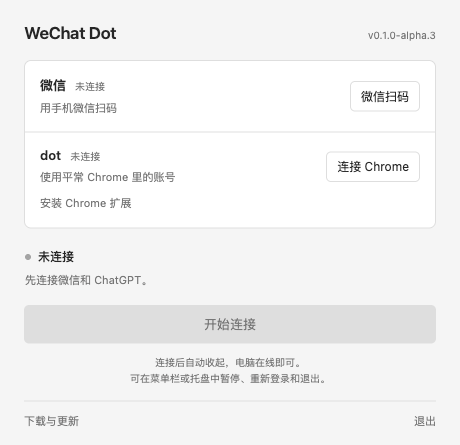
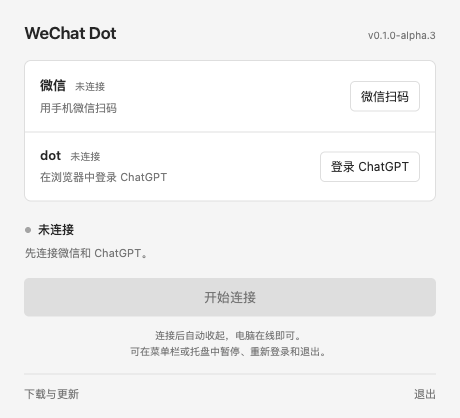
Restore ordinary browser login and verify the live text bridge

diff --git a/src/main.ts b/src/main.ts
@@ -183,7 +183,7 @@ async function run(): Promise<void> {
       const newer = Array.isArray(releases) && releases.find(r => !r.draft && valid(r.tag_name) && gt(r.tag_name, app.getVersion()));
       if (newer) publish({ updateUrl: config.updates.releaseUrl });
     }).catch(() => {});
-  if (store.data.dot) {
+  if (store.data.dot && store.data.enabled) {
     publish({ dot: 'waiting', dotDetail: '正在恢复 ChatGPT 登录…' });
     try { await dot.open(false); }
     catch (e) { publish({ dot: 'error', dotDetail: (e as Error).message }); show(); }

diff --git a/docs/development.md b/docs/development.md
@@ -16,7 +16,7 @@ npm run release
 
 `check` 跑类型检查、单元测试和编译；`smoke` 打开真实窗口；`desktop.mjs` 用临时目录和本地接口验证文字、去重、重启、主动回复和托盘运行。
 
-程序使用系统的应用数据目录。里面的 `state.json` 保存微信凭据、dot 标识、消息队列和收取位置。ChatGPT 登录由使用者平常的 Chrome 保存。旧版留下的 `ChatGPT Browser` 资料会保留，扩展不读取它。发布目录只包含程序资源。
+程序使用系统的应用数据目录。里面的 `state.json` 保存微信凭据、dot 标识、消息队列和收取位置。Chrome／Edge 使用其中的 `ChatGPT Browser` 独立资料目录保存登录，不读取日常浏览器的登录数据。发布目录只包含程序资源。
 
 通常不用改配置。需要调试时，把 `config/example.json` 复制到应用数据目录，命名为 `config.json`。默认地址、超时和限制都在 `config/defaults.json`。
 
@@ -26,27 +26,35 @@ npm run release
 
 ## dot
 
-`src/dot/client.ts` 集中处理网页适配。默认通过 Chrome 扩展使用现有登录状态。扩展创建自己的 ChatGPT 标签页；本地程序通过回环 WebSocket 请求读取 dot、检查输入框或发送文字。页面操作集中在 `src/dot/page.ts`，扩展执行打包好的方法，不接收任意脚本。
+`src/dot/client.ts` 集中处理网页适配。默认使用普通 Chrome／Edge 的独立窗口。登录阶段不启用调试连接；点击「登录完成」后，程序用同一份浏览器资料连接自己的窗口。页面操作集中在 `src/dot/page.ts`，发送走网页原来的输入框和按钮。
 
-扩展只申请 ChatGPT 网站权限，消息监听只在 dot 页面运行，并只转发自己创建的标签页。连接地址、扩展公钥和超时在配置中。服务只监听 `127.0.0.1`，只接受对应扩展 Origin。会话信息仅在这台电脑的 Chrome 与程序之间传递；没有中转服务器。
-
-发送仍使用网页输入框和发送按钮，由原网页准备请求。扩展观察原始请求 ID 和响应，完整回复才进入微信发送队列。程序重启后扩展会自动重连，通常在一分钟内。
+程序观察原始请求 ID 和响应，完整回复才进入微信发送队列。暂停状态下重启只打开连接设置；只有上次仍在连接时，才自动恢复浏览器和收发。无需 API Key、中转服务器或安装扩展。
 
 接口结构参考本机 ChatGPT 26.1002.52244 的客户端资源。适配器没有复制或打包这些资源。当前路径见配置；线上兼容性以验证记录为准。
 
-2026-10-08，独立浏览器实测反复遇到人机验证，平常的 Chrome 可以正常打开原 dot。因此默认改用扩展；真实收发仍待验证。遇到 HTTP 401／403 时暂停连接和自动识别，保留消息队列，等待用户明确操作。
+2026-10-08，独立浏览器实测曾反复遇到人机验证，平常的 Chrome 可以正常打开原 dot。2026-10-09 按确认的免费本地方案恢复普通浏览器入口；用户已完成独立 Chrome 登录，程序已识别原有 dot，真实收发继续验证。遇到 HTTP 401／403 时暂停连接和自动识别，保留消息队列，等待用户明确操作。
+
+2026-10-09 网页只读检查确认：旧 `/dots/{threadId}` 地址会跳转到 `/dots/home`，繁体中文界面的发送按钮为 `aria-label="傳送"`，没有旧的 `data-testid`。默认页面地址和按钮选择器已对应更新；本地测试覆盖跳转、真实可编辑输入框和繁体中文按钮。
+
+同日，实际启动连接时，消息接口返回 HTTP 422：`query.limit` 最大为 32。分页默认值从 50 改为原客户端使用的 20，并在本地接口测试中加入这个上限。
 
 ## 窗口与后台运行
 
 首次打开显示连接窗口。开始连接后收起；再次启动时，如果上次仍在连接，就在后台恢复。菜单栏／托盘提供连接设置、暂停、重新登录和退出。窗口随二维码、登录提示和错误内容调整高度，边界配置在 `desktop` 中。
 
-Chrome 扩展的源文件位于 `src/extension`，构建输出在 `dist/extension`，安装包同时携带可加载的扩展文件夹。扩展尚未上架，开发版需要手动加载；还不能称为一键安装。旧的独立浏览器适配保留供排查，内嵌模式用于本地接口测试，两者都不是默认登录入口。
+旧 Chrome 扩展的源文件位于 `src/extension`，仅保留作开发对照；它不是默认连接方式。内嵌模式用于本地接口测试。
 
 这套扩展流程仅用于开发验证，不是用户安装方案。调试时，在 Chrome 的 `chrome://extensions` 开启开发者模式，加载 `dist/extension`，再在扩展里连接本地程序。正式安装不能要求用户做这些操作。
 
 2026-10-08 重新核对安装限制：[Chrome 官方文档](https://developer.chrome.com/docs/extensions/how-to/distribute/install-extensions)要求 macOS／Windows 的常规扩展分发使用 Chrome Web Store，即使由其他软件协助安装也需要用户确认。把未上架扩展放进安装包，不能自动变成普通用户可直接安装的版本。
 
 OpenAI 的 [Sign in with ChatGPT](https://developers.openai.com/siwc/token-sharing-open-source)允许开源程序通过系统浏览器授权使用 ChatGPT 套餐，但明确不授予原有聊天及其他账户上下文。[支持的调用入口](https://developers.openai.com/siwc/token-sharing-open-source/models-and-inference)是 Responses API，不是 ChatGPT backend-api。因此不能把这个登录流程直接当成已验证的原有 dot 接入，也不能用一个新建聊天替代用户原来的 dot。
+
+## 能否直接绑定本机 ChatGPT
+
+2026-10-09 检查了本机 ChatGPT 26.1007.21159 的安装信息、链接路由和本地通信代码。`codex://dots` 可以打开 dot 入口；已检查的路由没有发送文字和订阅回复的方法。本地管道用于客户端工具和浏览器协作，目前没有找到供本项目直接绑定 dot 的消息入口。这次只检查程序资源，没有进行客户端收发实测，也没有实现新的连接方式。
+
+[dot 的电脑连接说明](https://learn.chatgpt.com/docs/dots/computers-and-apps)区分了消息渠道与电脑访问：dot 运行在云端，连接电脑是让它使用本机文件、应用和任务。自动找到 ChatGPT 安装位置，只能完成程序发现，不能证明可以转发微信消息。
 
 ## 为什么当前没有改成 ChatGPT 插件
 

diff --git a/docs/testing.md b/docs/testing.md
@@ -1,5 +1,28 @@
 # 验证记录
 
+## 当前开发版 · 2026-10-09
+
+默认连接改回独立的普通 Chrome／Edge，不要求安装扩展。以下结果对应当前源码，不代表已发布的安装包。
+
+| 项目 | 结果 |
+| --- | --- |
+| 真实 ChatGPT 登录与原有 dot 识别 | 用户已完成独立 Chrome 登录，程序已识别原有 dot |
+| 真实连接启动 | 通过；消息接口 `limit` 最大为 32，默认值已由 50 改为 20 |
+| 真实微信连续两句文字及上下文 | 通过：「记住数字 42」→「记住了」；追问数字→「42」。两条微信发送均获确认，原 dot 的消息 ID 已保存 |
+| 默认浏览器本地完整文字收发 | 通过，使用繁体中文按钮及真实可编辑输入框 |
+| 连续消息、去重、主动回复、重启和异常退出恢复 | 默认浏览器本地接口测试通过 |
+| 登录拒绝后停止请求、暂停后重启不打开浏览器 | 本地接口测试通过 |
+| 类型检查、23 项单元测试、编译 | 通过 |
+| 干净资料启动及 README 实际截图 | 通过，入口为「登录 ChatGPT」，没有扩展安装步骤 |
+| 当前版本 macOS ARM 应用包 | 打包、干净资料启动通过；已检查包内默认配置和扩展资源排除 |
+| 真实账号重启恢复 | 开发版退出后，应用包自动恢复登录和连接；已完成的两条消息没有重发 |
+| 当前版本 Windows 检查 | 尚未重新构建；真实账号未测 |
+| 图片、文件和语音 | 尚未接入 |
+
+首次进入原 dot 时出现过页面加载超时，后续尝试完成了上述两次往返。该结果证明当前账号的文字连接可用，尚未完成长时间连接、主动消息和媒体实测。
+
+## alpha.3 历史记录
+
 版本：0.1.0-alpha.3。日期：2026-10-08。
 
 | 项目 | 结果 |

diff --git a/README.md b/README.md
@@ -2,7 +2,7 @@
 
 [安装包（尚未发布）](https://github.com/Yugo616/wechat-dot/releases)
 
-安装版还在开发。真实收发和简易安装尚未完成，目前请先不要安装开发包。
+安装版还在开发。Mac 已跑通微信与原有 dot 的连续文字对话，安装包暂未发布。
 
 目标是三步使用：
 
@@ -12,9 +12,11 @@
 
 正式安装流程不要求开发者模式、手动加载扩展、安装 Node 或填写 API Key。
 
+使用你已有的 ChatGPT/dot 账号，不需要另购 API 或租服务器。
+
 ![开发版实际截图](assets/screenshot.png)
 
-文字收发、主动消息和重启恢复已通过本地模拟测试。图片、文件和语音尚未接入。真实账号进度见[验证记录](docs/testing.md)。
+文字收发和上下文已在 Mac 上实测；主动消息与重启恢复已通过本地模拟测试。图片、文件和语音尚未接入。进度见[验证记录](docs/testing.md)。
 
 ### 电脑要一直开着吗？
 
@@ -22,7 +24,7 @@
 
 ### 用的是我原来的 dot 吗？
 
-项目要连接的是你已有的 dot，并保留原有上下文。这一项仍在实测。
+是，连接你已有的 dot，接着原来的上下文聊。
 
 ### 首次打开被系统拦住怎么办？
 
@@ -30,6 +32,6 @@
 
 ### 登录过期了怎么办？
 
-微信在程序里重新扫码；ChatGPT 在 Chrome 中正常登录后点「重新识别」。登录数据只保存在这台电脑上。
+微信在程序里重新扫码；ChatGPT 在打开的浏览器中登录后，点「登录完成」。登录数据只保存在这台电脑上。
 
 [开发说明](docs/development.md) · [上游版权](THIRD_PARTY_NOTICES.md) · [MIT](LICENSE)
